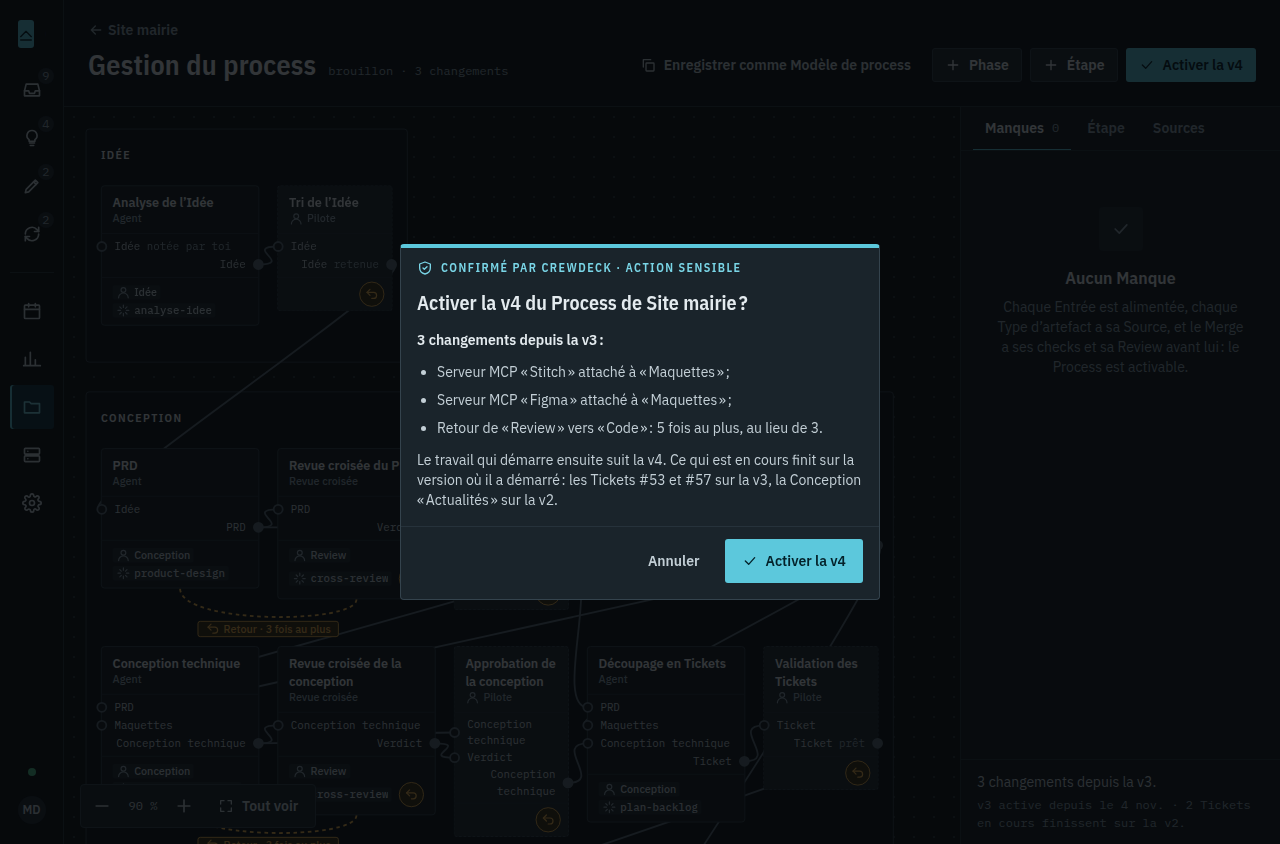
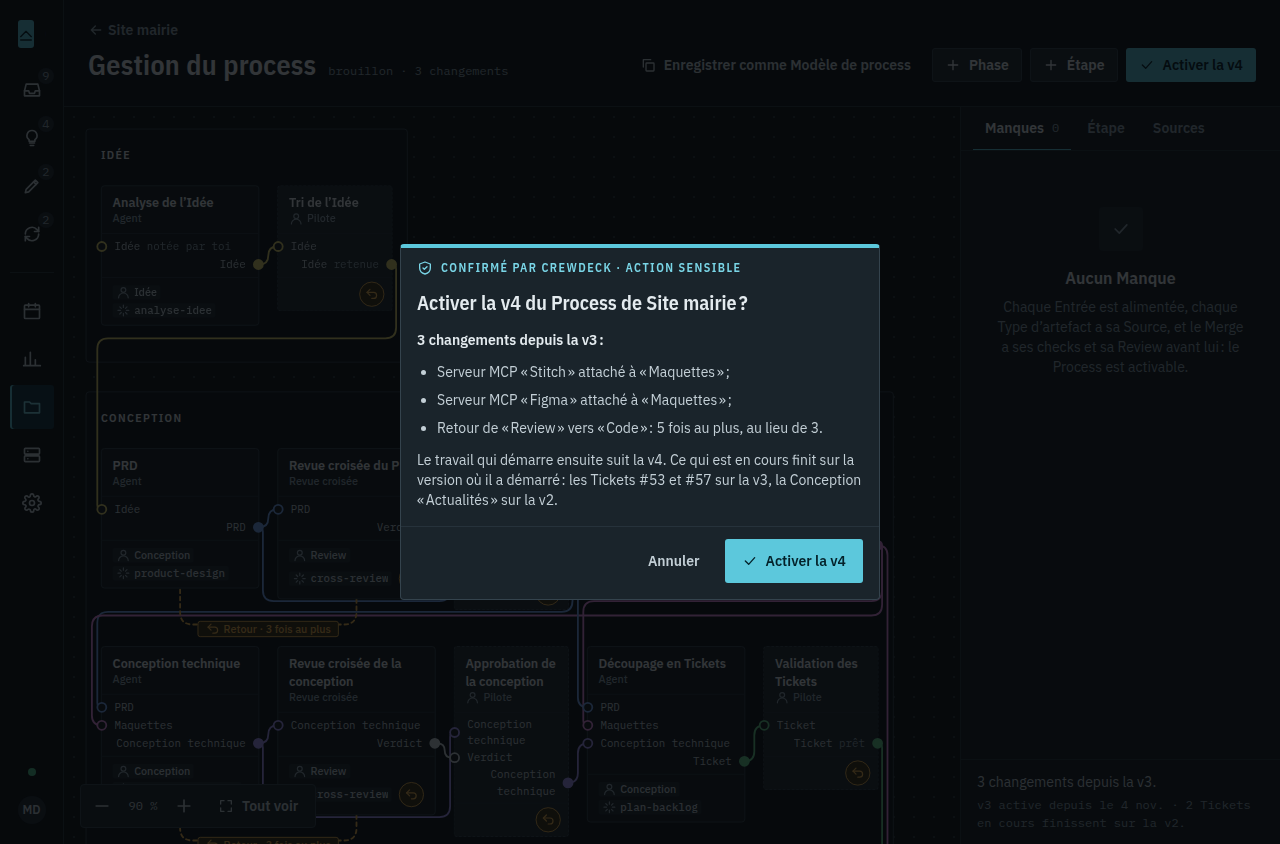
design(process) : flèches routées entre les cartes, couleur par Type d'artefact
Chaque flèche part de sa Sortie vers la droite, passe dans les couloirs
entre les cartes (jamais dessous), aux angles arrondis, et entre dans son
Entrée par la gauche ; les flèches de Sorties différentes prennent des
voies distinctes. Une flèche et ses deux points prennent la couleur de son
Type d'artefact (neuf jetons type-*) ; les autres s'estompent quand une
Étape est choisie.

diff --git a/design/components.js b/design/components.js
@@ -637,7 +637,10 @@
       icon(ic, "icon icon--sm"), h("span", { class: "tool-chip-name" }, ...el.childNodes)));
   });
 
-  // <ui-port dir="in|out" name="prd" state="unfed|compatible|refused|active" note="notée par le Pilote">PRD</ui-port>
+  // The catalogue's Types d'artefact, each with its colour token (--type-<slug>).
+  const ARTIFACT_TYPE = { "Idée": "idee", "PRD": "prd", "Maquettes": "maquettes", "Conception technique": "conception", "Inventaire": "inventaire", "Ticket": "ticket", "Changement de code": "changement", "Verdict": "verdict", "Livraison": "livraison" };
+  // <ui-port dir="in|out" name="prd" type="prd" state="unfed|compatible|refused|active" note="notée par le Pilote">PRD</ui-port>
+  // type: the Type d'artefact's slug, read from the text when omitted.
   // Its data-port, « <Étape ref>:<in|out>:<name> », is what ui-process-arrow names.
   define("ui-port", (el) => {
     const dir = a(el, "dir", "in");
@@ -645,9 +648,10 @@
     const ref = el.closest("ui-step-card")?.getAttribute("ref") || "";
     const label = el.textContent.trim();
     const name = a(el, "name", label.toLowerCase());
+    const type = a(el, "type", ARTIFACT_TYPE[label] || "");
     const dot = h("i", { class: "port-dot", "aria-hidden": "true" });
     const text = h("span", { class: "port-label" }, ...el.childNodes, a(el, "note") ? h("em", { text: ` ${a(el, "note")}` }) : null);
-    el.append(h("div", { class: `port port--${dir}${state ? ` port--${state}` : ""}`, "data-port": `${ref}:${dir}:${name}`, name: `Port/${cap(dir)}` },
+    el.append(h("div", { class: `port port--${dir}${state ? ` port--${state}` : ""}${type ? ` t-${type}` : ""}`, "data-port": `${ref}:${dir}:${name}`, "data-type": type, name: `Port/${cap(dir)}` },
       ...(dir === "in" ? [dot, text] : [text, dot])));
   });
 
@@ -723,39 +727,126 @@
       toast.length ? h("div", { class: "canvas-toast" }, ...toast) : null,
       menu.length ? h("div", { class: "canvas-menu" }, ...menu) : null));
 
+    // The router: each arrow leaves its Sortie to the right, runs in the gutters between the cards
+    // (orthogonal, rounded corners) and enters its Entrée from the left. It tries every one- and
+    // two-detour path through the gutters and keeps the shortest that crosses no card, no Phase's
+    // title and no Retour's badge; arrows from another Sortie take another lane.
     const draw = () => {
+      if (!content.offsetWidth) return; // the canvas is not shown (the phone reads the list)
       const base = content.getBoundingClientRect();
-      const at = (node, where) => {
+      const box = (node, m = 0) => {
         const r = node.getBoundingClientRect();
-        const x = where === "left" ? r.left : where === "right" ? r.right : r.left + r.width / 2;
-        const y = where === "bottom" ? r.bottom : r.top + r.height / 2;
-        return { x: (x - base.left) / zoom, y: (y - base.top) / zoom };
+        return { l: (r.left - base.left) / zoom - m, r: (r.right - base.left) / zoom + m, t: (r.top - base.top) / zoom - m, b: (r.bottom - base.top) / zoom + m };
       };
+      const mid = (node) => { const b = box(node); return { x: (b.l + b.r) / 2, y: (b.t + b.b) / 2 }; };
       svg.setAttribute("width", content.offsetWidth);
       svg.setAttribute("height", content.offsetHeight);
-      const path = (d, cls) => { const p = document.createElementNS(NS, "path"); p.setAttribute("d", d); p.setAttribute("class", cls); svg.append(p); };
-      const order = { undefined: 0, null: 0, gap: 1, active: 2, refused: 3 };
-      for (const ar of [...arrows].sort((x, y) => order[x.state] - order[y.state])) {
-        const [fs, fp] = ar.from.split("."), [ts, tp] = ar.to.split(".");
-        const o = content.querySelector(`[data-port="${fs}:out:${fp}"] .port-dot`);
-        const i = content.querySelector(`[data-port="${ts}:in:${tp}"] .port-dot`);
-        if (!o || !i) { console.warn(`ui-process-arrow : port introuvable ${ar.from} → ${ar.to}`); continue; }
-        const p1 = at(o, "center"), p2 = at(i, "center");
-        // Forward: a smooth S; backward (to a card on the left): a short loop out and back in.
-        const dx = p2.x >= p1.x ? Math.max(40, (p2.x - p1.x) / 2) : 48;
-        path(`M${p1.x},${p1.y} C${p1.x + dx},${p1.y} ${p2.x - dx},${p2.y} ${p2.x},${p2.y}`, `wire${ar.state ? ` wire--${ar.state}` : ""}`);
-      }
+      const gWires = document.createElementNS(NS, "g"), gLoops = document.createElementNS(NS, "g");
+      svg.append(gWires, gLoops);
+      const path = (g, d, cls) => { const p = document.createElementNS(NS, "path"); p.setAttribute("d", d); p.setAttribute("class", cls); g.append(p); };
+      // A polyline with rounded corners (the radius shrinks in a narrow gutter).
+      const rounded = (pts, R) => {
+        const q = pts.filter((p, i) => i === 0 || Math.abs(p.x - pts[i - 1].x) + Math.abs(p.y - pts[i - 1].y) > 0.5);
+        let d = `M${q[0].x},${q[0].y}`;
+        for (let i = 1; i < q.length - 1; i++) {
+          const p0 = q[i - 1], p = q[i], p1 = q[i + 1];
+          const l0 = Math.hypot(p.x - p0.x, p.y - p0.y), l1 = Math.hypot(p1.x - p.x, p1.y - p.y);
+          const r = Math.min(R, i === 1 ? l0 : l0 / 2, i === q.length - 2 ? l1 : l1 / 2);
+          const a0 = { x: p.x - ((p.x - p0.x) / l0) * r, y: p.y - ((p.y - p0.y) / l0) * r };
+          const a1 = { x: p.x + ((p1.x - p.x) / l1) * r, y: p.y + ((p1.y - p.y) / l1) * r };
+          d += ` L${a0.x},${a0.y} Q${p.x},${p.y} ${a1.x},${a1.y}`;
+        }
+        const z = q[q.length - 1];
+        return `${d} L${z.x},${z.y}`;
+      };
+
+      const cards = [...content.querySelectorAll(".step-card")];
+      const obstacles = [...cards.map((c) => ({ node: c, ...box(c, 2) })), ...[...content.querySelectorAll(".phase-head")].map((c) => box(c, 2))];
+
+      // Retours first: their badges are obstacles for the arrows.
       for (const lb of loops) {
         const f = content.querySelector(`[data-ref="${lb.from}"]`), t = content.querySelector(`[data-ref="${lb.to}"]`);
         if (!f || !t) { console.warn(`ui-loop-back : Étape introuvable ${lb.from} → ${lb.to}`); continue; }
-        const p1 = at(f, "bottom"), p2 = at(t, "bottom");
-        const low = Math.max(p1.y, p2.y) + 28;
-        path(`M${p1.x},${p1.y} C${p1.x},${low} ${p2.x},${low} ${p2.x},${p2.y}`, `wire wire--loop${lb.state ? ` wire--loop-${lb.state}` : ""}`);
+        const bf = box(f), bt = box(t);
+        const x1 = (bf.l + bf.r) / 2, x2 = (bt.l + bt.r) / 2;
+        // Below every card of the row it passes under.
+        const under = cards.map((c) => box(c)).filter((b) => b.r > Math.min(x1, x2) && b.l < Math.max(x1, x2) && b.t < Math.max(bf.b, bt.b) && b.b > Math.min(bf.t, bt.t) - 1);
+        const low = Math.max(bf.b, bt.b, ...under.map((b) => b.b)) + 28;
+        path(gLoops, rounded([{ x: x1, y: bf.b }, { x: x1, y: low }, { x: x2, y: low }, { x: x2, y: bt.b }], 14), `wire wire--loop${lb.state ? ` wire--loop-${lb.state}` : ""}`);
         const badge = h("span", { class: `loop-badge${lb.state ? ` loop-badge--${lb.state}` : ""}`, name: "LoopBack/Default" }, icon("undo", "icon icon--sm"), `Retour · ${lb.max} fois au plus`);
-        badge.style.left = `${(p1.x + p2.x) / 2}px`;
+        badge.style.left = `${(x1 + x2) / 2}px`;
         badge.style.top = `${low - 4}px`;
         content.append(badge);
+        obstacles.push(box(badge, 3));
       }
+
+      // The gutters: beside and between the cards, lanes a few units apart.
+      const vLanes = [0, -3, 3, -6, 6], hLanes = [0, -4, 4, -8, 8];
+      const xs = [...new Set(cards.flatMap((c) => { const b = box(c); return [b.r + 10, b.l - 10]; }).flatMap((x) => vLanes.map((o) => Math.round(x + o))))];
+      const ys = [...new Set(cards.flatMap((c) => { const b = box(c); return [b.b + 14, b.t - 14]; }).flatMap((y) => hLanes.map((o) => Math.round(y + o))))];
+      const hits = (s, skip) => obstacles.some((o) => !(o.node && skip.includes(o.node)) &&
+        Math.max(s.x1, s.x2) > o.l && Math.min(s.x1, s.x2) < o.r && Math.max(s.y1, s.y2) > o.t && Math.min(s.y1, s.y2) < o.b);
+      // A Phase's border is a lane no arrow runs along.
+      const routed = [...content.querySelectorAll(".phase")].flatMap((ph) => {
+        const b = box(ph);
+        return [[b.l, b.t, b.r, b.t], [b.l, b.b, b.r, b.b], [b.l, b.t, b.l, b.b], [b.r, b.t, b.r, b.b]].map(([x1, y1, x2, y2]) => ({ x1, y1, x2, y2, src: "phase" }));
+      }); // { x1, y1, x2, y2, src }
+      const cost = (pts, src) => {
+        let c = 0;
+        for (let i = 1; i < pts.length; i++) {
+          const s = { x1: pts[i - 1].x, y1: pts[i - 1].y, x2: pts[i].x, y2: pts[i].y };
+          c += Math.abs(s.x2 - s.x1) + Math.abs(s.y2 - s.y1);
+          const vertical = Math.abs(s.x1 - s.x2) < 0.5;
+          for (const o of routed) {
+            if (o.src === src) continue;
+            const border = o.src === "phase";
+            const ov = Math.abs(o.x1 - o.x2) < 0.5;
+            // Running along another Sortie's arrow (or a border): a lane is taken twice.
+            const along = (p, q, r, t) => Math.max(0, Math.min(Math.max(p, q), Math.max(r, t)) - Math.max(Math.min(p, q), Math.min(r, t)));
+            if (vertical && ov && Math.abs(o.x1 - s.x1) < 4) { const l = along(s.y1, s.y2, o.y1, o.y2); if (l > 0) c += 400 + 4 * l; }
+            else if (!vertical && !ov && Math.abs(o.y1 - s.y1) < 4) { const l = along(s.x1, s.x2, o.x1, o.x2); if (l > 0) c += 400 + 4 * l; }
+            else if (vertical !== ov) {
+              const [v, hz] = vertical ? [s, o] : [o, s];
+              if (v.x1 > Math.min(hz.x1, hz.x2) && v.x1 < Math.max(hz.x1, hz.x2) && hz.y1 > Math.min(v.y1, v.y2) && hz.y1 < Math.max(v.y1, v.y2)) c += border ? 0 : 6;
+            }
+          }
+        }
+        return c + 24 * (pts.length - 2);
+      };
+      // The first segment leaves card A, the last one enters card B: those two cards do not count there.
+      const free = (pts, A, B) => pts.every((p, i) => i === 0 || !hits({ x1: pts[i - 1].x, y1: pts[i - 1].y, x2: p.x, y2: p.y }, [i === 1 ? A : null, i === pts.length - 1 ? B : null]));
+      const route = (p1, p2, A, B, src) => {
+        const cands = [];
+        if (Math.abs(p1.y - p2.y) < 1 && p2.x > p1.x) cands.push([p1, p2]);
+        for (const x of xs) if (x > p1.x + 4 && x < p2.x - 4) cands.push([p1, { x, y: p1.y }, { x, y: p2.y }, p2]);
+        const near = (list, ok, key) => list.filter(ok).sort((u, v) => key(u) - key(v)).slice(0, 6);
+        const x1s = near(xs, (x) => x > p1.x + 4, (x) => x - p1.x), x2s = near(xs, (x) => x < p2.x - 4, (x) => p2.x - x);
+        for (const xa of x1s) for (const xb of x2s) for (const y of ys) cands.push([p1, { x: xa, y: p1.y }, { x: xa, y }, { x: xb, y }, { x: xb, y: p2.y }, p2]);
+        let best = null, bestCost = Infinity;
+        for (const pts of cands) {
+          if (!free(pts, A, B)) continue;
+          const c = cost(pts, src);
+          if (c < bestCost) { best = pts; bestCost = c; }
+        }
+        if (!best) { console.warn("ui-process-arrow : aucun chemin libre"); best = [p1, { x: (p1.x + p2.x) / 2, y: p1.y }, { x: (p1.x + p2.x) / 2, y: p2.y }, p2]; }
+        for (let i = 1; i < best.length; i++) routed.push({ x1: best[i - 1].x, y1: best[i - 1].y, x2: best[i].x, y2: best[i].y, src });
+        return best;
+      };
+
+      const order = { undefined: 0, null: 0, gap: 1, active: 2, refused: 3 };
+      const found = arrows.map((ar) => {
+        const [fs, fp] = ar.from.split("."), [ts, tp] = ar.to.split(".");
+        const o = content.querySelector(`[data-port="${fs}:out:${fp}"]`), i = content.querySelector(`[data-port="${ts}:in:${tp}"]`);
+        if (!o || !i) { console.warn(`ui-process-arrow : port introuvable ${ar.from} → ${ar.to}`); return null; }
+        return { ...ar, o, i, p1: mid(o.querySelector(".port-dot")), p2: mid(i.querySelector(".port-dot")), len: Math.abs(mid(i).x - mid(o).x) + Math.abs(mid(i).y - mid(o).y) };
+      }).filter(Boolean);
+      // Short arrows first: they take the lanes next to their cards, the long ones go around.
+      for (const ar of [...found].sort((x, y) => x.len - y.len)) ar.pts = route(ar.p1, ar.p2, ar.o.closest(".step-card"), ar.i.closest(".step-card"), ar.from);
+      for (const ar of [...found].sort((x, y) => order[x.state] - order[y.state])) {
+        const type = ar.o.dataset.type || ar.i.dataset.type;
+        path(gWires, rounded(ar.pts, 12), `wire${type ? ` t-${type}` : ""}${ar.state ? ` wire--${ar.state}` : ""}`);
+      }
+      if (found.some((ar) => ar.state === "active")) el.querySelector(".canvas").classList.add("has-active");
     };
     (document.fonts ? document.fonts.ready : Promise.resolve()).then(() => requestAnimationFrame(draw));
   });

diff --git a/design/components.html b/design/components.html
@@ -236,8 +236,8 @@
           <ui-step-card ref="g-code" name="Code" variant="agent" col="1" row="1"><ui-port dir="in" name="ticket">Ticket</ui-port><ui-port dir="out" name="changement">Changement de code</ui-port><ui-tool-chip kind="role">Code</ui-tool-chip><ui-tool-chip kind="skill">red-green</ui-tool-chip></ui-step-card>
           <ui-step-card ref="g-review" name="Review" kind="Review" variant="agent" col="2" row="1" judges selected><ui-port dir="in" name="changement" state="active">Changement de code</ui-port><ui-port dir="out" name="verdict" state="active">Verdict</ui-port><ui-tool-chip kind="role">Review</ui-tool-chip><ui-tool-chip kind="mcp">Figma</ui-tool-chip></ui-step-card>
           <ui-step-card ref="g-rv" name="Revue visuelle" variant="gate" col="3" row="1" judges><ui-port dir="in" name="changement" state="compatible">Changement de code</ui-port><ui-port dir="in" name="maquettes" state="refused">Maquettes</ui-port><ui-port dir="out" name="verdict">Verdict</ui-port></ui-step-card>
-          <ui-step-card ref="g-fusion" name="Fusion" kind="Fusion" variant="agent" col="4" row="1" gaps="1"><ui-port dir="in" name="v" state="unfed">Verdict de la Review</ui-port><ui-port dir="out" name="changement">Changement fusionné</ui-port><ui-tool-chip kind="connecteur">GitHub</ui-tool-chip></ui-step-card>
-          <ui-step-card ref="g-lancer" name="Lancer" variant="command" col="5" row="1"><ui-port dir="in" name="changement">Changement fusionné</ui-port><ui-port dir="out" name="livraison">Livraison</ui-port><ui-tool-chip kind="commande">docker compose up -d</ui-tool-chip></ui-step-card>
+          <ui-step-card ref="g-fusion" name="Merge" kind="par la Boucle" variant="core" col="4" row="1" gaps="1"><ui-port dir="in" name="v" state="unfed" note="de la Review">Verdict</ui-port><ui-port dir="out" name="changement" note="mergé">Changement de code</ui-port><ui-tool-chip kind="connecteur">GitHub</ui-tool-chip></ui-step-card>
+          <ui-step-card ref="g-lancer" name="Lancer" variant="command" col="5" row="1"><ui-port dir="in" name="changement" note="mergé">Changement de code</ui-port><ui-port dir="out" name="livraison">Livraison</ui-port><ui-tool-chip kind="commande">docker compose up -d</ui-tool-chip></ui-step-card>
         </ui-phase>
         <ui-process-arrow from="g-code.changement" to="g-review.changement" state="active"></ui-process-arrow>
         <ui-process-arrow from="g-code.changement" to="g-rv.changement"></ui-process-arrow>
@@ -255,7 +255,7 @@
       <div class="specimen"><code>ui-phase-group [open] [gaps] · ui-step-row [gap] [loop-back] (le téléphone)</code>
         <ui-phase-group name="Développement" for-each="chaque Ticket prêt" count="2 Étapes · 1 Retour" gaps="1" open>
           <ui-step-row name="Review" kind="Review" icon="spark" tools="Rôle Review · review" flow="Changement de code → Verdict" loop-back="vers « Code », 3 fois au plus"></ui-step-row>
-          <ui-step-row name="Fusion" kind="Fusion" icon="spark" tools="GitHub" flow="Changement de code, Verdict → Changement fusionné" gap="Rien n’alimente son Entrée « Verdict de la Review »"></ui-step-row>
+          <ui-step-row name="Merge" kind="par la Boucle" icon="merge" tools="GitHub" flow="Changement de code, Verdict (de la Review) → Changement de code (mergé)" gap="Rien n’alimente son Entrée « Verdict de la Review »"></ui-step-row>
         </ui-phase-group>
         <ui-phase-group name="Conception" count="10 Étapes · 2 Retours"></ui-phase-group></div>
       <div class="specimen"><code>ui-menu · ui-menu-group · ui-menu-item [selected] [state="disabled"]</code>

diff --git a/design/components.css b/design/components.css
@@ -581,8 +581,18 @@ ui-tool-chip, ui-menu-item { display: contents; }
 .canvas-viewport { height: 100%; overflow: hidden; }
 .canvas-content { position: relative; display: grid; gap: var(--space-8); padding: var(--space-6); width: max-content; align-items: start; transform-origin: 0 0; }
 .canvas-wires { position: absolute; left: 0; top: 0; pointer-events: none; overflow: visible; }
-.wire { fill: none; stroke: var(--control-border); stroke-width: var(--stroke); }
-.wire--active { stroke: var(--accent); }
+/* Each Type d'artefact's colour, on its arrows and its ports' dots */
+.t-idee { --type: var(--type-idee); }
+.t-prd { --type: var(--type-prd); }
+.t-maquettes { --type: var(--type-maquettes); }
+.t-conception { --type: var(--type-conception); }
+.t-inventaire { --type: var(--type-inventaire); }
+.t-ticket { --type: var(--type-ticket); }
+.t-changement { --type: var(--type-changement); }
+.t-verdict { --type: var(--type-verdict); }
+.t-livraison { --type: var(--type-livraison); }
+.wire { fill: none; stroke: var(--type, var(--control-border)); stroke-width: var(--stroke); stroke-linecap: round; }
+.canvas.has-active .wire:not(.wire--active):not(.wire--loop):not(.wire--refused) { opacity: 0.25; }
 .wire--gap { stroke: var(--caution); stroke-dasharray: var(--space-1) var(--space-1); }
 .wire--refused { stroke: var(--halt); stroke-dasharray: var(--space-2) var(--space-1); }
 .wire--loop { stroke: var(--caution); stroke-dasharray: var(--space-1) var(--space-1); }
@@ -635,13 +645,13 @@ ui-step-card { position: relative; z-index: 1; }
 .port--out { justify-content: flex-end; text-align: right; padding-left: var(--space-3); }
 .port-label { min-width: 0; overflow: hidden; text-overflow: ellipsis; white-space: nowrap; }
 .port-label em { font-style: normal; color: var(--muted); }
-.port-dot { width: var(--dot); height: var(--dot); flex: none; border-radius: var(--radius-full); border: var(--stroke) solid var(--control-border); background: var(--panel); box-sizing: content-box; }
+.port-dot { width: var(--dot); height: var(--dot); flex: none; border-radius: var(--radius-full); border: var(--stroke) solid var(--type, var(--control-border)); background: var(--panel); box-sizing: content-box; }
 .port--in .port-dot { margin-left: calc((var(--dot) / -2) - var(--stroke)); }
-.port--out .port-dot { margin-right: calc((var(--dot) / -2) - var(--stroke)); background: var(--control-border); }
+.port--out .port-dot { margin-right: calc((var(--dot) / -2) - var(--stroke)); background: var(--type, var(--control-border)); }
 .port--unfed { color: var(--caution); }
 .port--unfed .port-dot { border-color: var(--caution); }
-.port--active .port-dot { border-color: var(--accent); }
-.port--active.port--out .port-dot { background: var(--accent); }
+.port--active { color: var(--ink); }
+.port--active .port-dot { box-shadow: 0 0 0 var(--stroke) var(--panel), 0 0 0 var(--rail) var(--type, var(--accent)); }
 .port--compatible { color: var(--accent-text); }
 .port--compatible .port-dot { border-color: var(--accent); box-shadow: 0 0 0 var(--space-1) var(--accent-soft); }
 .port--refused { color: var(--halt); }

diff --git a/design/tokens.css b/design/tokens.css
@@ -28,6 +28,15 @@
   --del: #3a1b1b;
   --scrim: #05080acc;
   --shadow: #00000080;
+  --type-idee: #e2d36a;
+  --type-prd: #74a6f4;
+  --type-maquettes: #e48ee6;
+  --type-conception: #a596f7;
+  --type-inventaire: #79d6b9;
+  --type-ticket: #63cf8c;
+  --type-changement: #f08fb2;
+  --type-verdict: #ccd6dc;
+  --type-livraison: #b2d46a;
   --radius-sm: 0.125rem;
   --radius: 0.1875rem;
   --radius-lg: 0.25rem;

diff --git a/design/DESIGN.md b/design/DESIGN.md
@@ -29,6 +29,15 @@ colors:
   del: '#3a1b1b'
   scrim: '#05080acc'
   shadow: '#00000080'
+  type-idee: '#e2d36a'
+  type-prd: '#74a6f4'
+  type-maquettes: '#e48ee6'
+  type-conception: '#a596f7'
+  type-inventaire: '#79d6b9'
+  type-ticket: '#63cf8c'
+  type-changement: '#f08fb2'
+  type-verdict: '#ccd6dc'
+  type-livraison: '#b2d46a'
 typography:
   brand:
     fontFamily: IBM Plex Sans Condensed
@@ -181,7 +190,7 @@ contracts will use.
 | Waits, limit near, interrupted, incomplete | `caution` on `caution-soft` |
 | Blocked, failed, offline, destructive | `halt` on `halt-soft` (`halt-ink` on a `halt` badge) |
 | Diff lines | `add`, `del` |
-| Canvas: its ground, its arrows (`active` for the selected **Étape**'s, `caution` dashed for a **Retour** or a **Manque**, `halt` dashed for a refused one) | `side`, `control-border` |
+| Canvas: its ground; an arrow and its two dots take the colour of their **Type d'artefact** (the others dim while an **Étape** is selected; `caution` dashed for a **Retour** or a **Manque**, `halt` dashed for a refused one) | `side`, `type-idee`, `type-prd`, `type-maquettes`, `type-conception`, `type-inventaire`, `type-ticket`, `type-changement`, `type-verdict`, `type-livraison` |
 | Dialog backdrop, shadows | `scrim`, `shadow` |
 
 Contrast: every text colour is AA on `ground`, `side`, `panel`, `raised`,
@@ -327,7 +336,11 @@ Each is a custom element `ui-<name>`; its root carries `data-name`.
   (where the view is, in canvas units); children `ui-phase`, then
   `ui-process-arrow` (`from="<Étape>.<Sortie>"`, `to="<Étape>.<Entrée>"`,
   `state="active|gap|refused"`) and `ui-loop-back` (`from`, `to`, `max`,
-  `state="active"`), drawn as one SVG layer once the cards are laid out;
+  `state="active"`), drawn as one SVG layer once the cards are laid out:
+  an arrow leaves its **Sortie** to the right, runs in the gutters between
+  the cards (never under one), with rounded corners, and enters its
+  **Entrée** from the left; arrows from different **Sorties** take
+  separate lanes, those from one **Sortie** share their trunk;
   `slot="toast"` a message at its top, `slot="menu"` a menu opened from the
   panel, on its right edge; the zoom controls at its foot.
 - **Phase** (`Phase/Default`, `Phase/Repeated`): `name`, `for-each`
@@ -345,7 +358,9 @@ Each is a custom element `ui-<name>`; its root carries `data-name`.
   as text, always, then `note` muted (what qualifies it: « retenue »,
   « des checks », « notée par toi »), `state="active|unfed|compatible|refused"`.
   An **Entrée** is a hollow dot on the left edge, a **Sortie** a filled one
-  on the right.
+  on the right, both in their type's colour (`type="<slug>"`, else read
+  from the text: `idee`, `prd`, `maquettes`, `conception`, `inventaire`,
+  `ticket`, `changement`, `verdict`, `livraison`).
 - **ToolChip** (`ToolChip/<Kind>`): `kind="role|skill|mcp|commande|connecteur"`, the **Outil**'s name.
 - **LoopBack** (`LoopBack/Default`): the **Retour**'s badge « Retour · 3 fois
   au plus » on its dashed `caution` curve.
